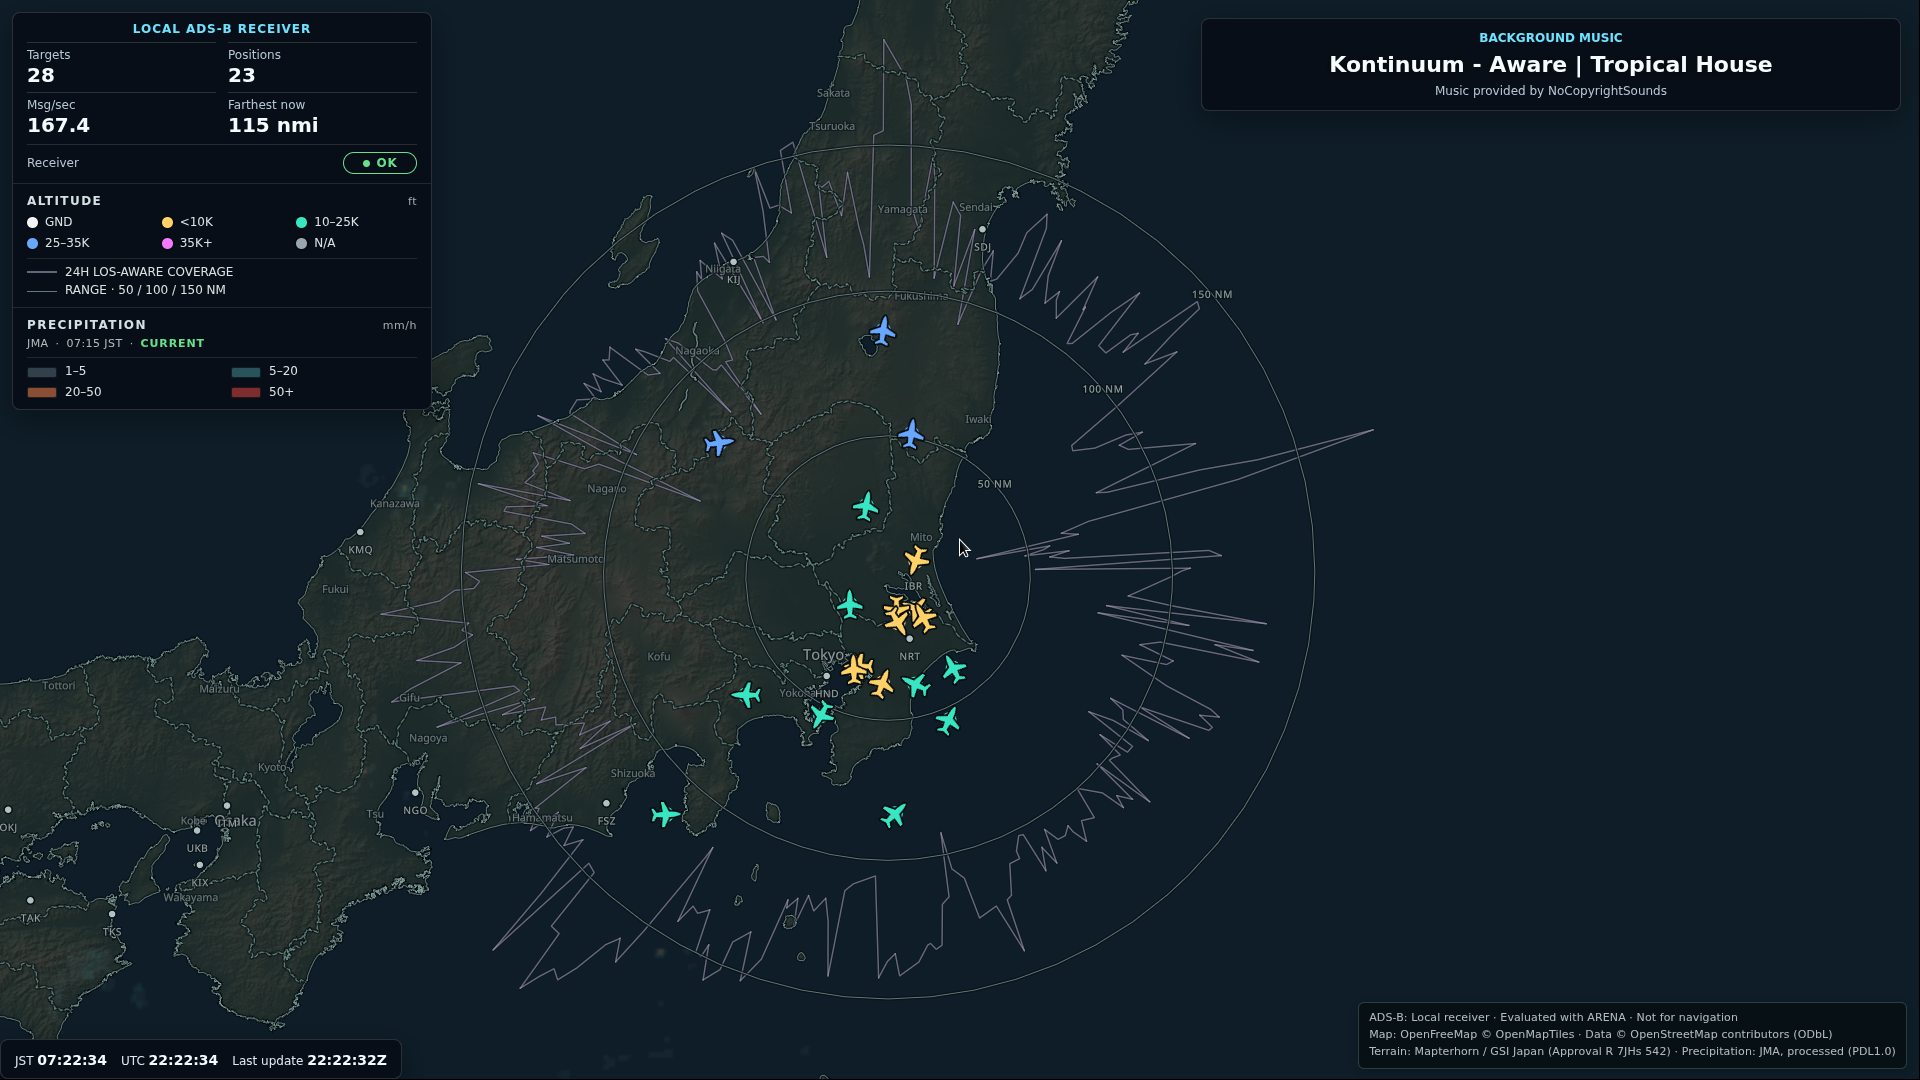
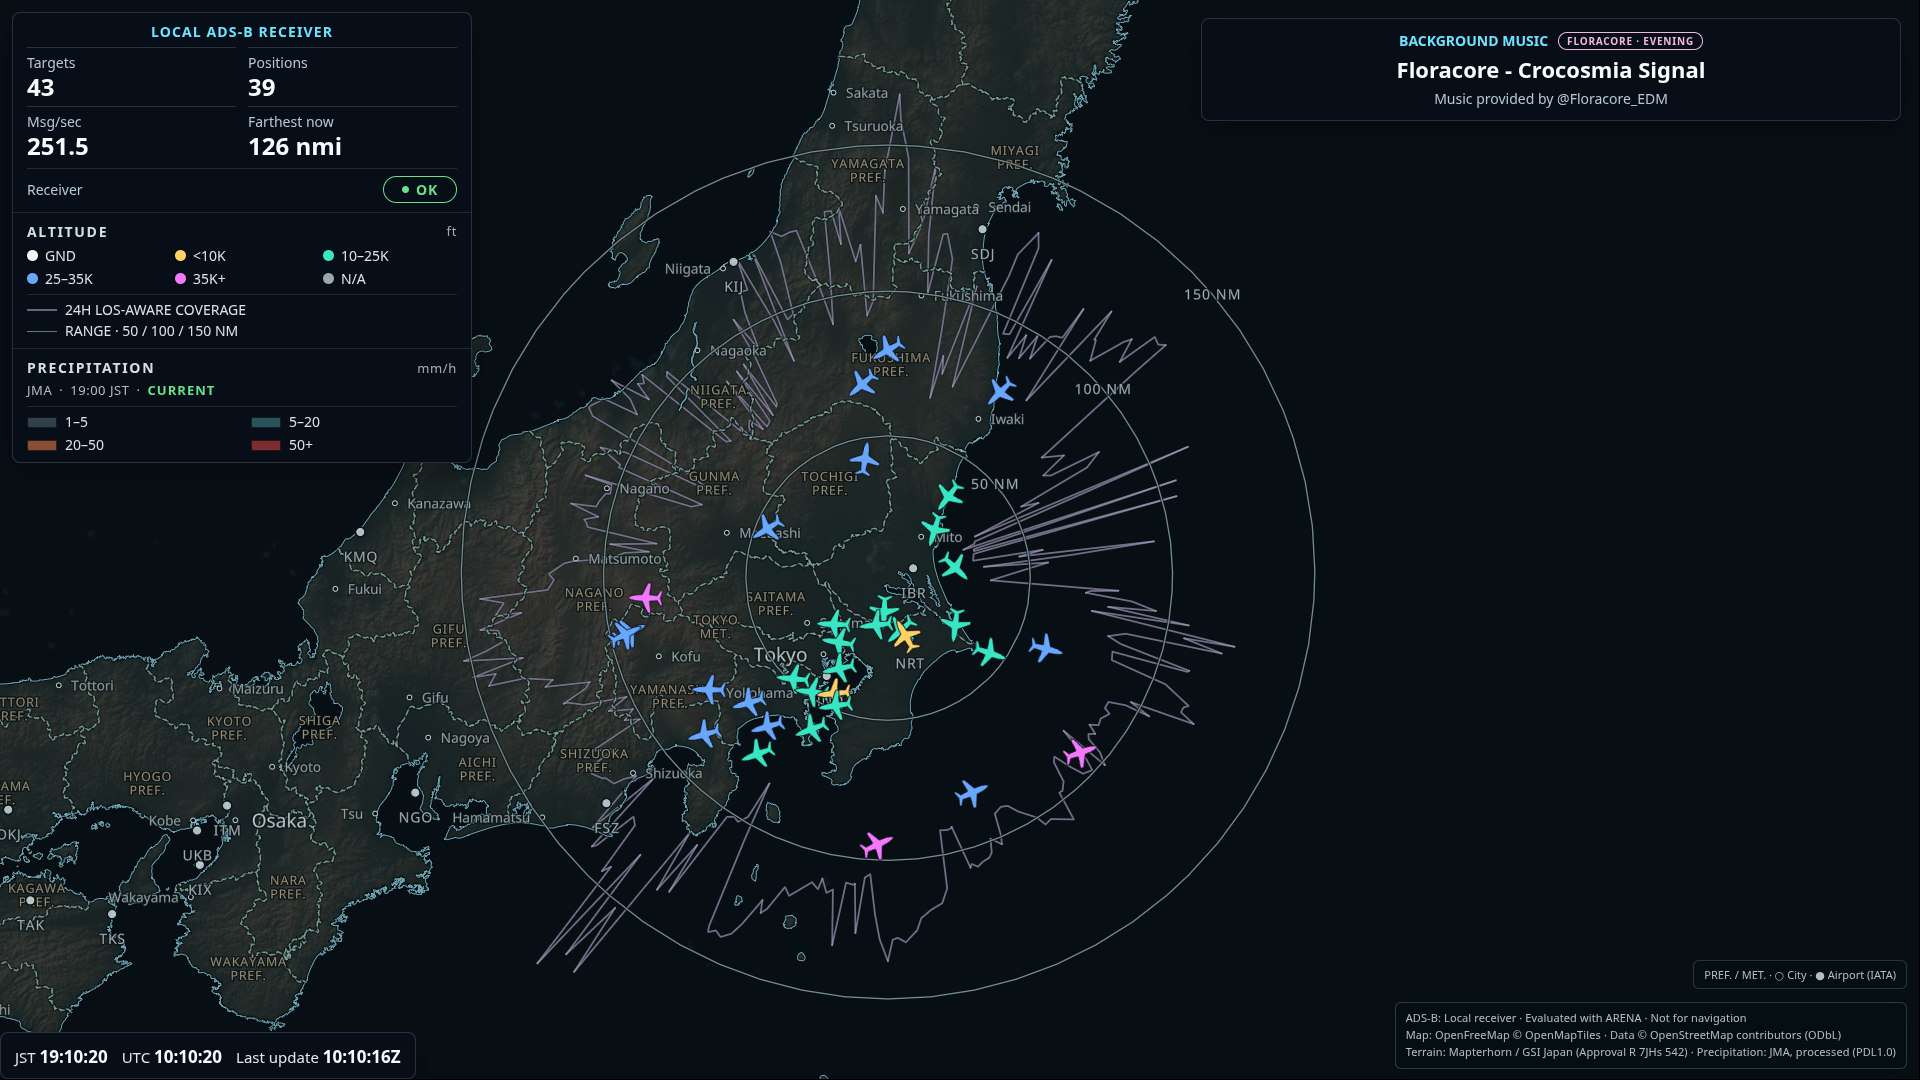
Show the current stream view with prefecture labels and distinct markers
The README screenshot now reflects the 2026-10-22 map, with prefecture labels and separate city and airport markers, and a caption dates the capture.

diff --git a/README.md b/README.md
@@ -4,7 +4,10 @@
 [![Python >=3.10](https://img.shields.io/badge/python-%3E%3D3.10-3776AB.svg)](pyproject.toml)
 [![License: MIT](https://img.shields.io/badge/license-MIT-green.svg)](LICENSE)
 
-[![Aircraft map rendered by this system](docs/assets/live-stream-screenshot.png)](https://www.youtube.com/@yukimurata0421/live)
+[![Live aircraft map with prefecture labels and distinct city and airport markers](docs/assets/live-stream-screenshot.png)](https://www.youtube.com/@yukimurata0421/live)
+
+*Stream view captured on 2026-10-22 (JST), showing prefecture labels and distinct
+city and airport markers.*
 
 **Watch:** [YouTube](https://www.youtube.com/@yukimurata0421/live) ·
 [Twitch](https://www.twitch.tv/tokyoflighttracker) ·
